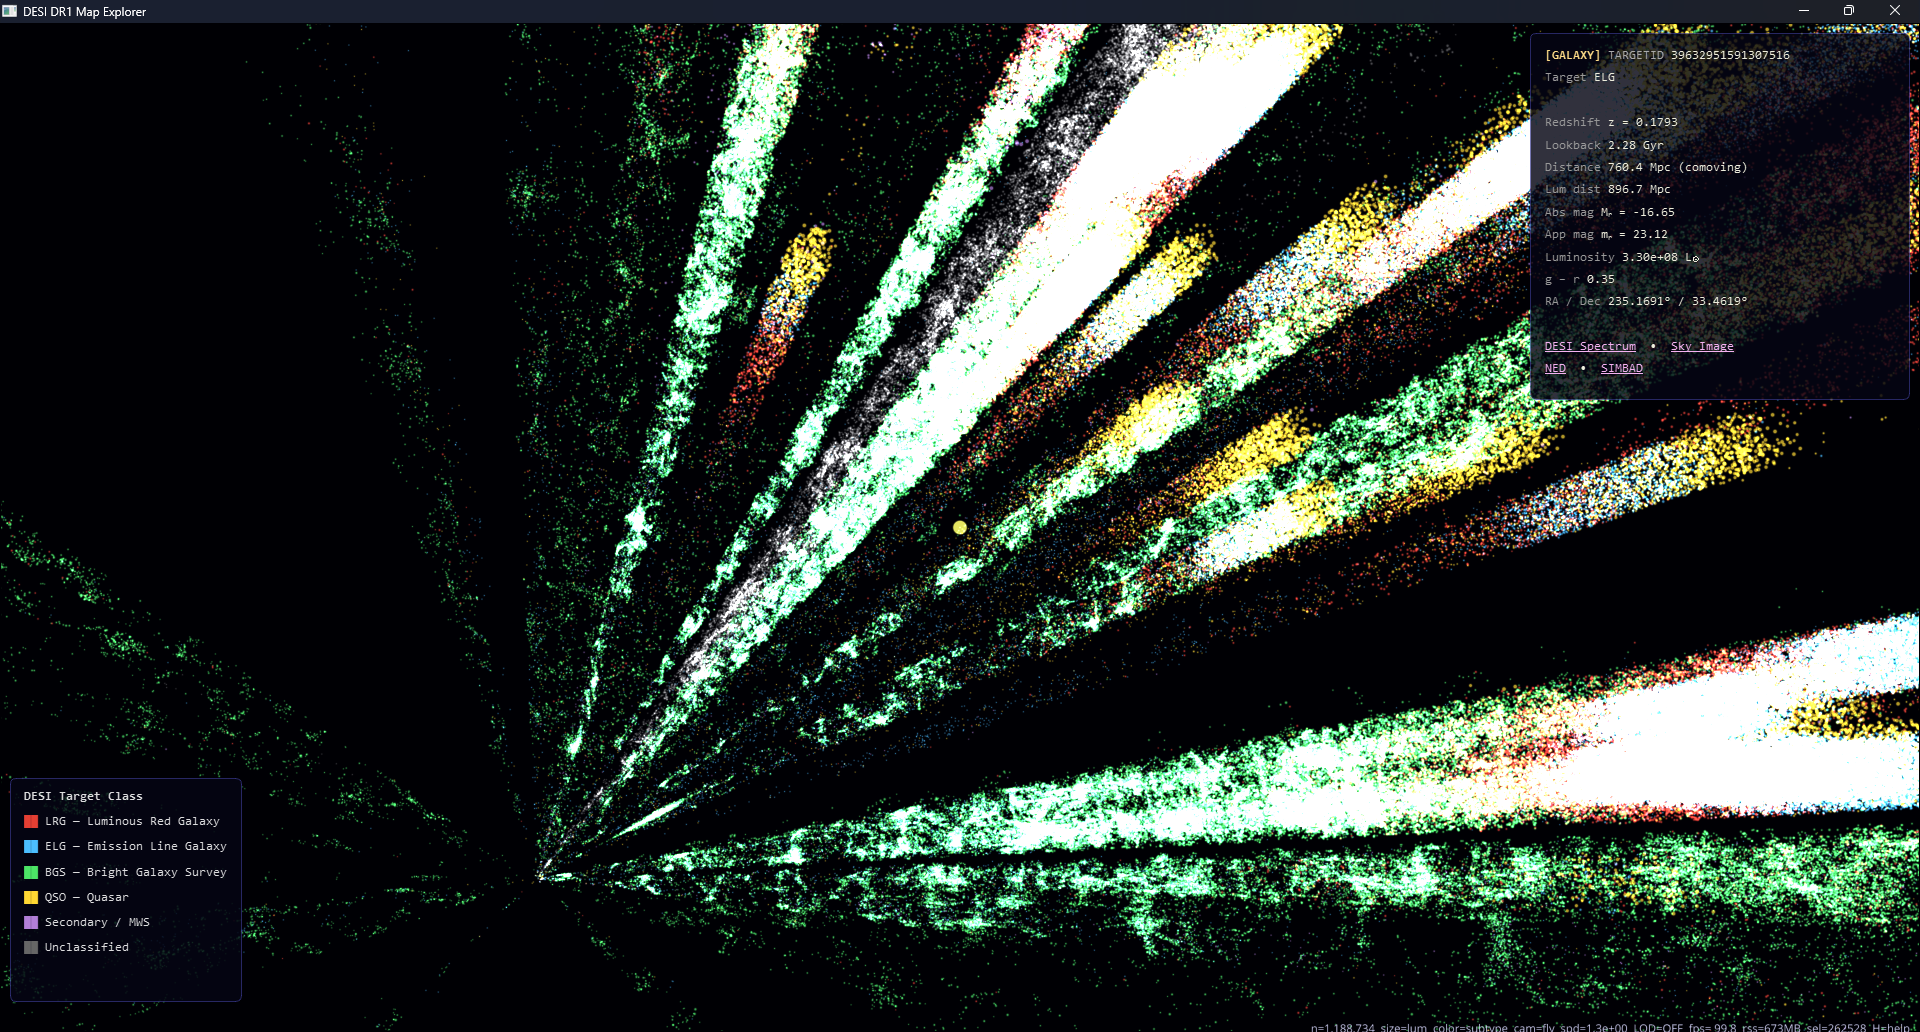
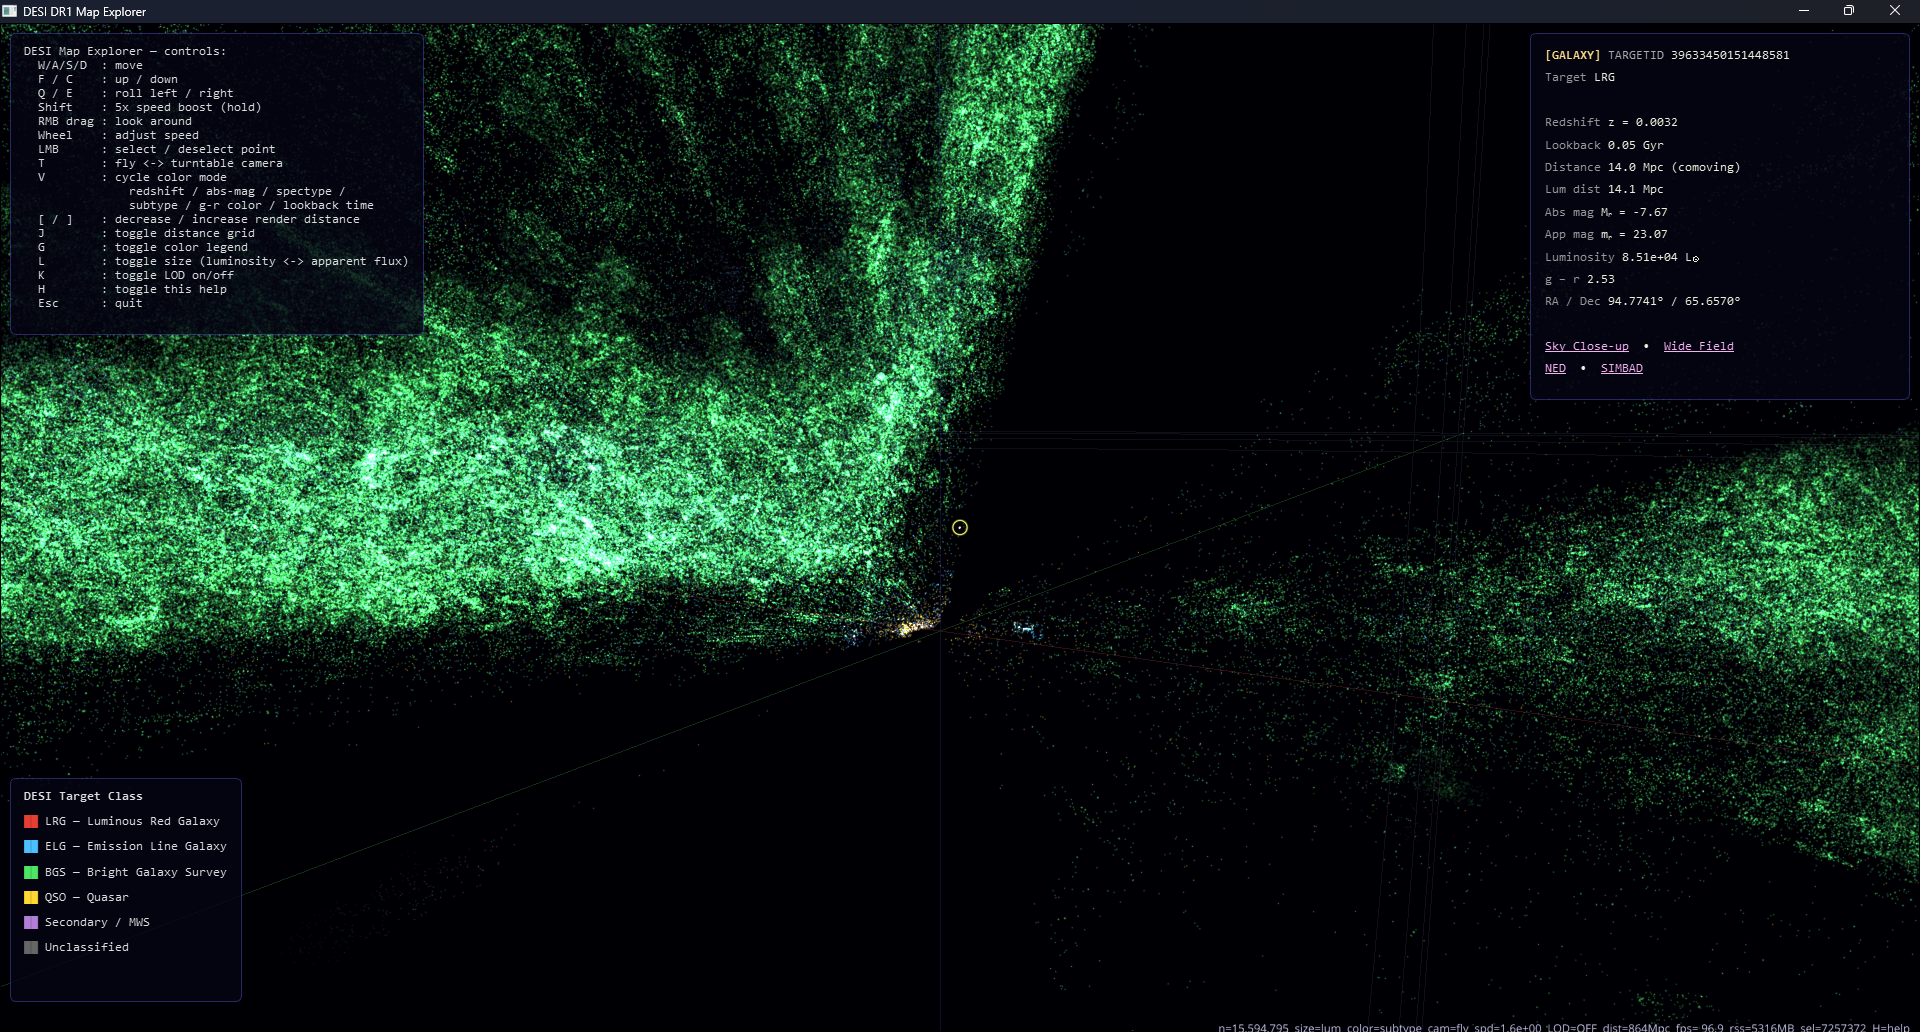
chore: grid on by default, update preview screenshot

diff --git a/viewer.py b/viewer.py
@@ -503,7 +503,7 @@ class Viewer:
         self._highlight.visible = False
 
         self._grid_visuals: list = []
-        self._grid_visible = False
+        self._grid_visible = True
         self._build_grid()
 
         self._held_keys: set[str] = set()
@@ -623,7 +623,6 @@ class Viewer:
                     pos=pts, color=(0.5, 0.5, 0.7, grid_alpha),
                     parent=self.view.scene, width=1.0,
                 )
-                line.visible = False
                 self._grid_visuals.append(line)
 
             label = scene.visuals.Text(
@@ -632,7 +631,6 @@ class Viewer:
                 font_size=8, parent=self.view.scene,
                 anchor_x="left", anchor_y="bottom",
             )
-            label.visible = False
             self._grid_visuals.append(label)
 
         axis_len = max(radii) * 1.1
@@ -649,7 +647,6 @@ class Viewer:
                 pos=pts, color=color,
                 parent=self.view.scene, width=1.0,
             )
-            line.visible = False
             self._grid_visuals.append(line)
 
     @staticmethod
